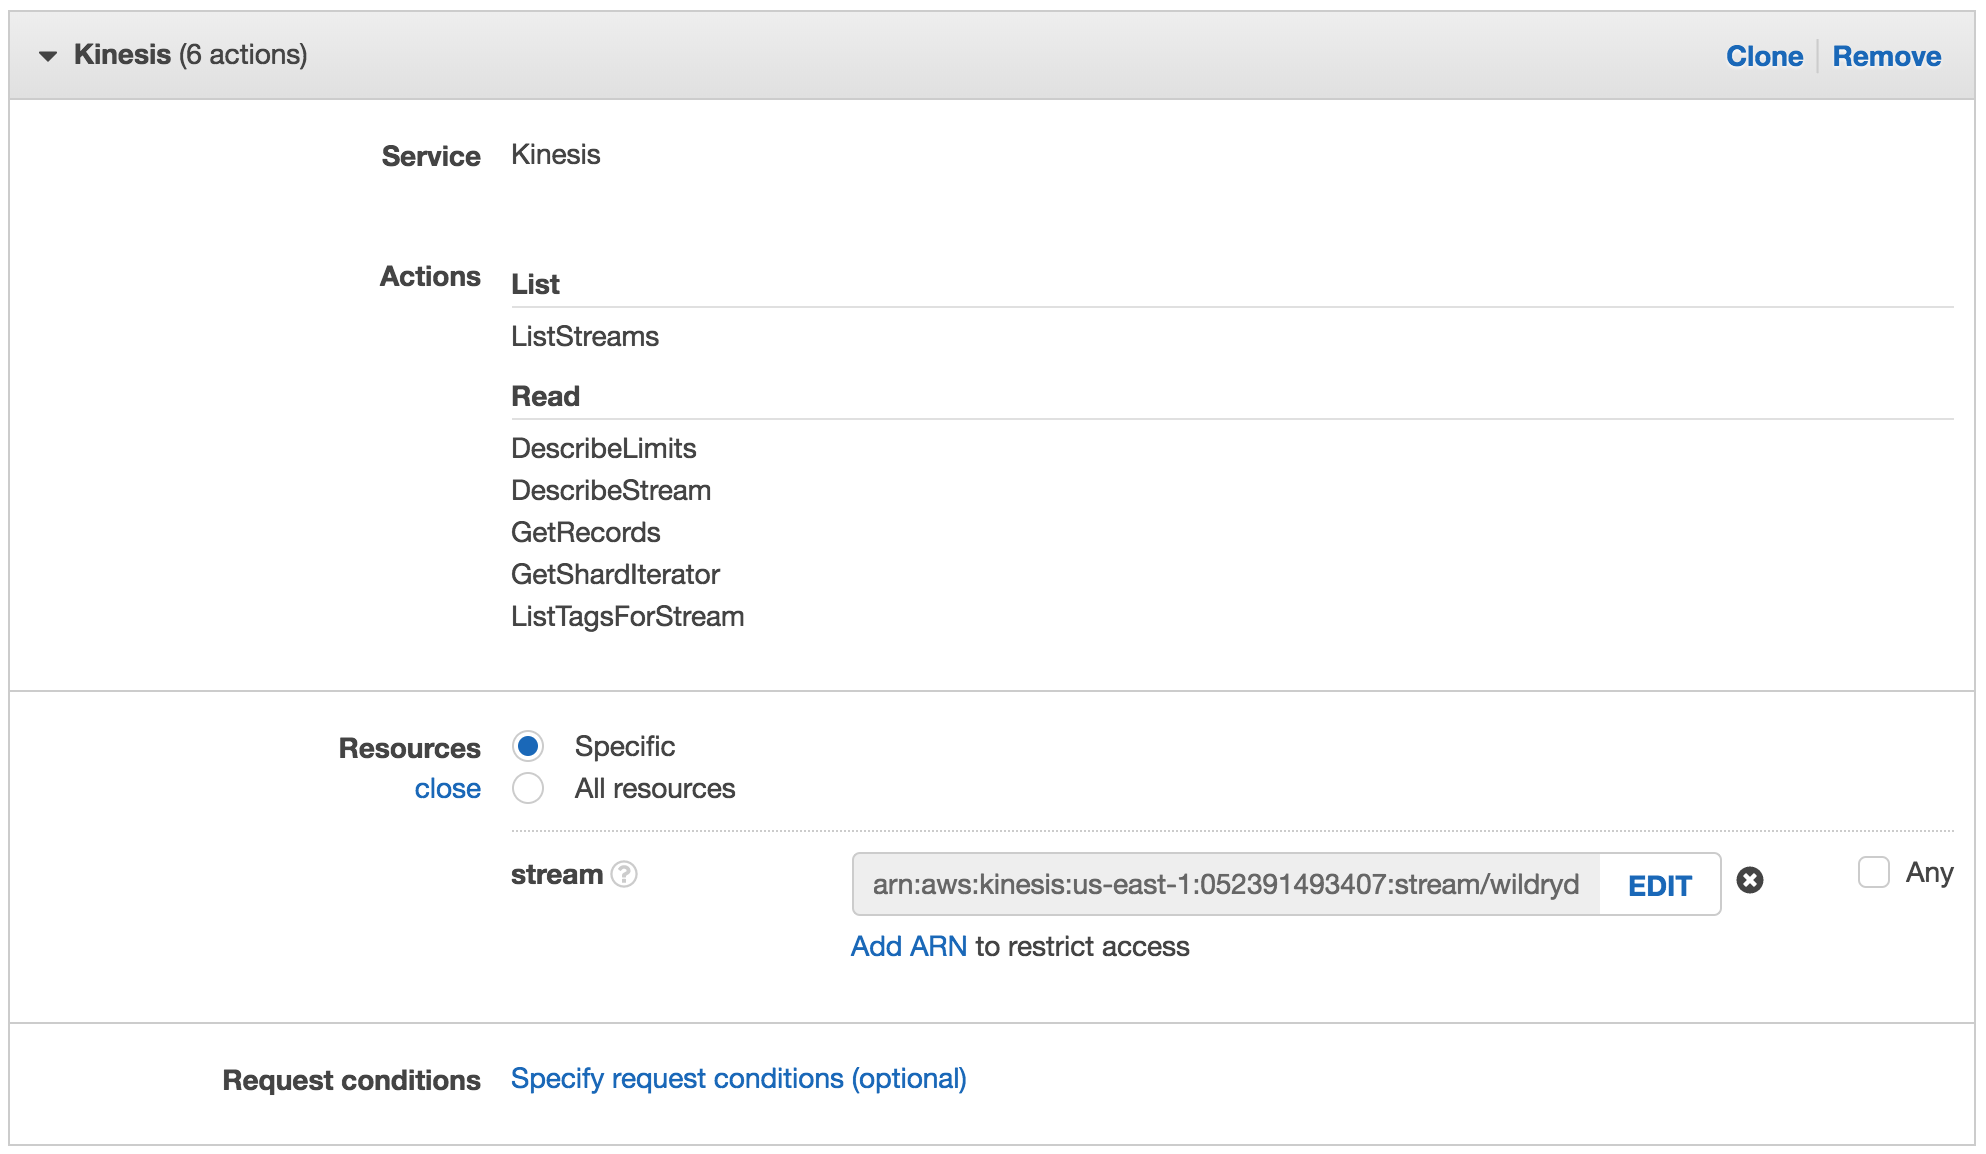
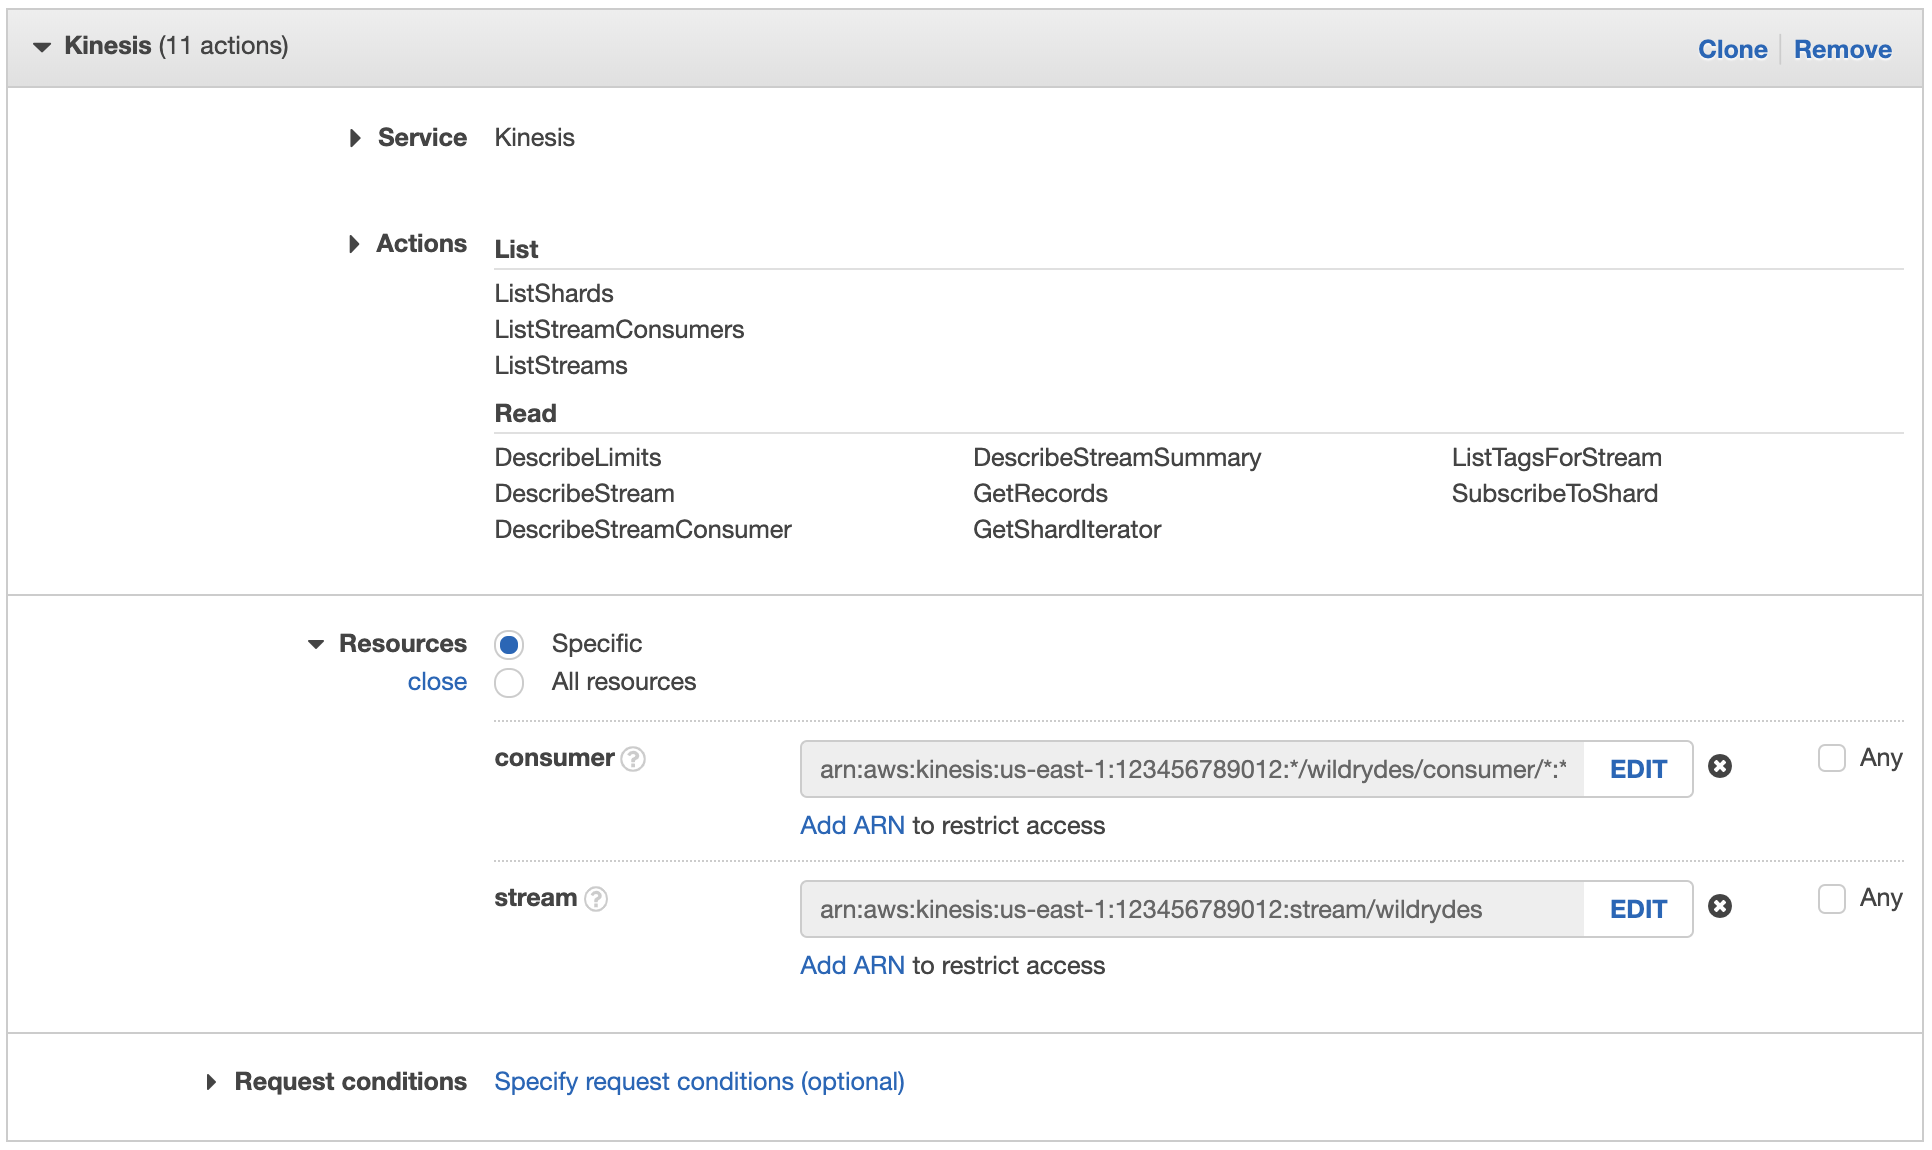
update 'Real-time Data Streaming' module with new IAM screenshots

diff --git a/DataProcessing/guide/site/streaming-data.html b/DataProcessing/guide/site/streaming-data.html
@@ -57,7 +57,7 @@ Copy to Clipboard
 <pre class="console"><code>$ ./producer -region us-east-1
 ..................................................</code></pre></li>
 <li><p>In the Amazon Kinesis Streams console, click on <strong>wildrydes</strong> and click on the <strong>Monitoring</strong> tab.</p></li>
-<li><p>After several minutes, you will see the <strong>Put Record (success count)</strong> graph begin to record a single put a second.</p></li>
+<li><p>After several minutes, you will see the <strong>Put Record Success (percent) - Average</strong> graph begin to record a single put a second.</p></li>
 </ol>
 <h4 id="read-messages-from-the-stream">3. Read messages from the stream</h4>
 <p><strong>✅ Step-by-step Instructions</strong></p>
@@ -116,10 +116,27 @@ Copy to Clipboard
 <li><p>Click on <strong>Choose a service</strong> and click <strong>Kinesis</strong>.</p></li>
 <li><p>Click on <strong>Actions</strong>.</p></li>
 <li><p>Tick the <strong>Read</strong> and <strong>List</strong> permissions checkboxes.</p></li>
-<li><p>Click <strong>Resources</strong> to limit the role to the <strong>wildrydes</strong> stream.</p></li>
+<li><p>Click <strong>Resources</strong> to limit the role to the <strong>wildrydes</strong> stream and consumer.</p></li>
+<li><p>Click <strong>Add ARN</strong> next to <strong>consumer</strong>.</p></li>
+<li><p>In the <strong>Add ARN(s)</strong> dialog box, enter the following information:</p>
+<ul>
+<li>the region you’re using in <strong>Region</strong> (e.g. us-east-1)</li>
+<li>your <a href="https://docs.aws.amazon.com/IAM/latest/UserGuide/console_account-alias.html">Account ID</a> in <strong>Account</strong></li>
+<li><code>*</code> in <strong>Stream type</strong></li>
+<li><code>wildrydes</code> in <strong>Stream name</strong></li>
+<li><code>*</code> in <strong>Consumer name</strong></li>
+<li><code>*</code> in <strong>Consumer creation timestamp</strong></li>
+</ul>
+<p><br/> <img src="images/streaming-data-consumer-arn.png" /></p></li>
+<li><p>Click <strong>Add</strong>.</p></li>
 <li><p>Click <strong>Add ARN</strong> next to <strong>stream</strong>.</p></li>
-<li><p>Enter the region you’re using in <strong>Region</strong> (e.g. us-east-1), your <a href="https://docs.aws.amazon.com/IAM/latest/UserGuide/console_account-alias.html">Account ID</a> in <strong>Account</strong>, and <code>wildrydes</code> in <strong>Stream name</strong>.</p>
-<p><img src="images/streaming-data-stream-arn.png" /></p></li>
+<li><p>In the <strong>Add ARN(s)</strong> dialog box, enter the following information:</p>
+<ul>
+<li>the region you’re using in <strong>Region</strong> (e.g. us-east-1)</li>
+<li>your <a href="https://docs.aws.amazon.com/IAM/latest/UserGuide/console_account-alias.html">Account ID</a> in <strong>Account</strong></li>
+<li><code>wildrydes</code> in <strong>Stream name</strong></li>
+</ul>
+<p><br/> <img src="images/streaming-data-stream-arn.png" /></p></li>
 <li><p>Click <strong>Add</strong>.</p>
 <p><img src="images/streaming-data-stream-policy.png" /></p></li>
 <li><p>Click <strong>Review policy</strong>.</p></li>
@@ -131,7 +148,7 @@ Copy to Clipboard
 <p><strong>✅ Step-by-step directions</strong></p>
 <ol type="1">
 <li><p>Open the <a href="https://dataprocessing.wildrydes.com/dashboard.html">Unicorn Dashboard</a>.</p></li>
-<li><p>Enter the <strong>Cognito Identity Pool ID</strong> you noted in step 4 and the <strong>Kinesis Data Stream name</strong> and click <strong>Start</strong>.</p>
+<li><p>Enter the <strong>Cognito Identity Pool ID</strong> you noted in step 4 and click <strong>Start</strong>.</p>
 <p><img src="./images/streaming-data-dashboard-configure.png" /></p></li>
 <li><p>Validate that you can see the unicorn on the map.</p>
 <p><img src="./images/streaming-data-map.png" /></p></li>

diff --git a/DataProcessing/guide/site/stream-processing.html b/DataProcessing/guide/site/stream-processing.html
@@ -80,7 +80,7 @@
 <p><img src="./images/stream-processing-lambda-basic-information.png" /></p></li>
 <li><p>Click <strong>Create function</strong>.</p></li>
 <li><p>Scroll down to the <strong>Function code</strong> section.</p></li>
-<li><p>Select <strong>Node.js 8.10</strong> from <strong>Runtime</strong>.</p></li>
+<li><p>Select <strong>Node.js 6.10</strong> from <strong>Runtime</strong>.</p></li>
 <li><p>Copy and paste the JavaScript code below into the code editor.</p>
 <div class="sourceCode" id="cb1"><pre class="sourceCode javascript"><code class="sourceCode javascript"><a class="sourceLine" id="cb1-1" data-line-number="1"><span class="st">&#39;use strict&#39;</span><span class="op">;</span></a>
 <a class="sourceLine" id="cb1-2" data-line-number="2"></a>
@@ -171,7 +171,7 @@ Copy to Clipboard
 <ol type="1">
 <li><p>Run the producer to start emiting sensor data to the stream with a unique unicorn name.</p>
 <pre class="console"><code>./producer -name Rocinante</code></pre></li>
-<li><p>Click on the <strong>Monitoring</strong> tab and explore the metrics available to monitor the function. Click on <strong>View logs in CloudWatch</strong> to explore the function’s log output.</p></li>
+<li><p>Click on the <strong>Monitoring</strong> tab and explore the metrics available to monitor the function. Click on <strong>Jump to Logs</strong> to explore the function’s log output.</p></li>
 </ol>
 <button class="btn btn-outline-primary copy">
 Copy to Clipboard

diff --git a/DataProcessing/guide/site/data-lake.html b/DataProcessing/guide/site/data-lake.html
@@ -38,7 +38,7 @@
 <li><p>Provide a globally unique name for your bucket such as <code>wildrydes-data-yourname</code>.</p></li>
 <li><p>Select the region you’ve been using for your bucket.</p>
 <p><img src="images/data-lake-create-bucket.png" /></kbd></p></li>
-<li><p>Click <strong>Next</strong> three times, and then click <strong>Create bucket</strong>.</p></li>
+<li><p>Click <strong>Next</strong> twice, and then click <strong>Create bucket</strong>.</p></li>
 </ol>
 <h4 id="create-an-amazon-kinesis-data-firehose-delivery-stream">2. Create an Amazon Kinesis Data Firehose delivery stream</h4>
 <p>Create an Amazon Kinesis Data Firehose delivery stream named <strong>wildrydes</strong> that is configured to source data from the <strong>wildrydes</strong> stream and deliver its contents in batches to the S3 bucket created in the previous section.</p>
@@ -88,7 +88,7 @@
 <button class="btn btn-outline-primary copy">
 Copy to Clipboard
 </button></li>
-<li><p>Click <strong>Run Query</strong>. You might have to run the query twice.</p></li>
+<li><p>Click <strong>Run Query</strong>.</p></li>
 <li><p>Verify the table <strong>wildrydes</strong> was created by ensuring it has been added to the list of tables in the left navigation.</p></li>
 </ol>
 <h4 id="explore-the-batched-data-files">4. Explore the batched data files</h4>

diff --git a/DataProcessing/guide/site/cleanup.html b/DataProcessing/guide/site/cleanup.html
@@ -62,7 +62,7 @@
 <p><strong><em>UnicornSensorData</em> table</strong></p>
 <ol type="1">
 <li><p>Click on <strong>Services</strong> then select <strong>DynamoDB</strong> in the Database section.</p></li>
-<li><p>Click <strong>Tables</strong> from the left-hand navigation</p></li>
+<li><p>Click <strong>Tables</strong> from the left-hand navigation.</p></li>
 <li><p>Click the radio button next to <strong>UnicornSensorData</strong>.</p></li>
 <li><p>Click <strong>Delete table</strong> and click <strong>Delete</strong> to confirm the deletion.</p></li>
 </ol>

diff --git a/DataProcessing/guide/site/dashboard.html b/DataProcessing/guide/site/dashboard.html
@@ -23,10 +23,6 @@
 <label for='cognitoIdentityPoolId'>Cognito Identity Pool ID</label>
 <input autocomplete='off' class='form-control' id='cognitoIdentityPoolId' spellcheck='false' type='text'>
 </div>
-<div class='form-group'>
-<label for='kinesisStreamName'>Kinesis Data Stream Name</label>
-<input autocomplete='off' class='form-control' id='kinesisStreamName' spellcheck='false' type='text' value='wildrydes'>
-</div>
 </div>
 <div class='modal-footer'>
 <button class='btn btn-primary' id='start'>Start</button>

diff --git a/DataProcessing/guide/content/streaming-data.md b/DataProcessing/guide/content/streaming-data.md
@@ -81,7 +81,7 @@ the stream.
 1. In the Amazon Kinesis Streams console, click on **wildrydes** and click on
    the **Monitoring** tab.
 
-1. After several minutes, you will see the **Put Record (success count)** graph
+1. After several minutes, you will see the **Put Record Success (percent) - Average** graph
    begin to record a single put a second.
 
 #### 3. Read messages from the stream
@@ -177,13 +177,33 @@ the stream to plot the unicorns on the map.
 
 1. Tick the **Read** and **List** permissions checkboxes.
 
-1. Click **Resources** to limit the role to the **wildrydes** stream.
+1. Click **Resources** to limit the role to the **wildrydes** stream and consumer.
+
+1. Click **Add ARN** next to **consumer**.
+
+1. In the **Add ARN(s)** dialog box, enter the following information:
+
+    *  the region you're using in **Region** (e.g. us-east-1)
+    *  your [Account ID][find-account-id] in **Account**
+    * `*` in **Stream type**
+    * `wildrydes` in **Stream name**
+    * `*` in **Consumer name**
+    * `*` in **Consumer creation timestamp**
+
+    <br/>
+    ![](images/streaming-data-consumer-arn.png)
+
+1. Click **Add**.
 
 1. Click **Add ARN** next to **stream**.
 
-1. Enter the region you're using in **Region** (e.g. us-east-1), your [Account
-   ID][find-account-id] in **Account**, and `wildrydes` in **Stream name**.
+1. In the **Add ARN(s)** dialog box, enter the following information:
 
+    *  the region you're using in **Region** (e.g. us-east-1)
+    *  your [Account ID][find-account-id] in **Account**
+    * `wildrydes` in **Stream name**
+
+    <br/>
     ![](images/streaming-data-stream-arn.png)
 
 1. Click **Add**.
